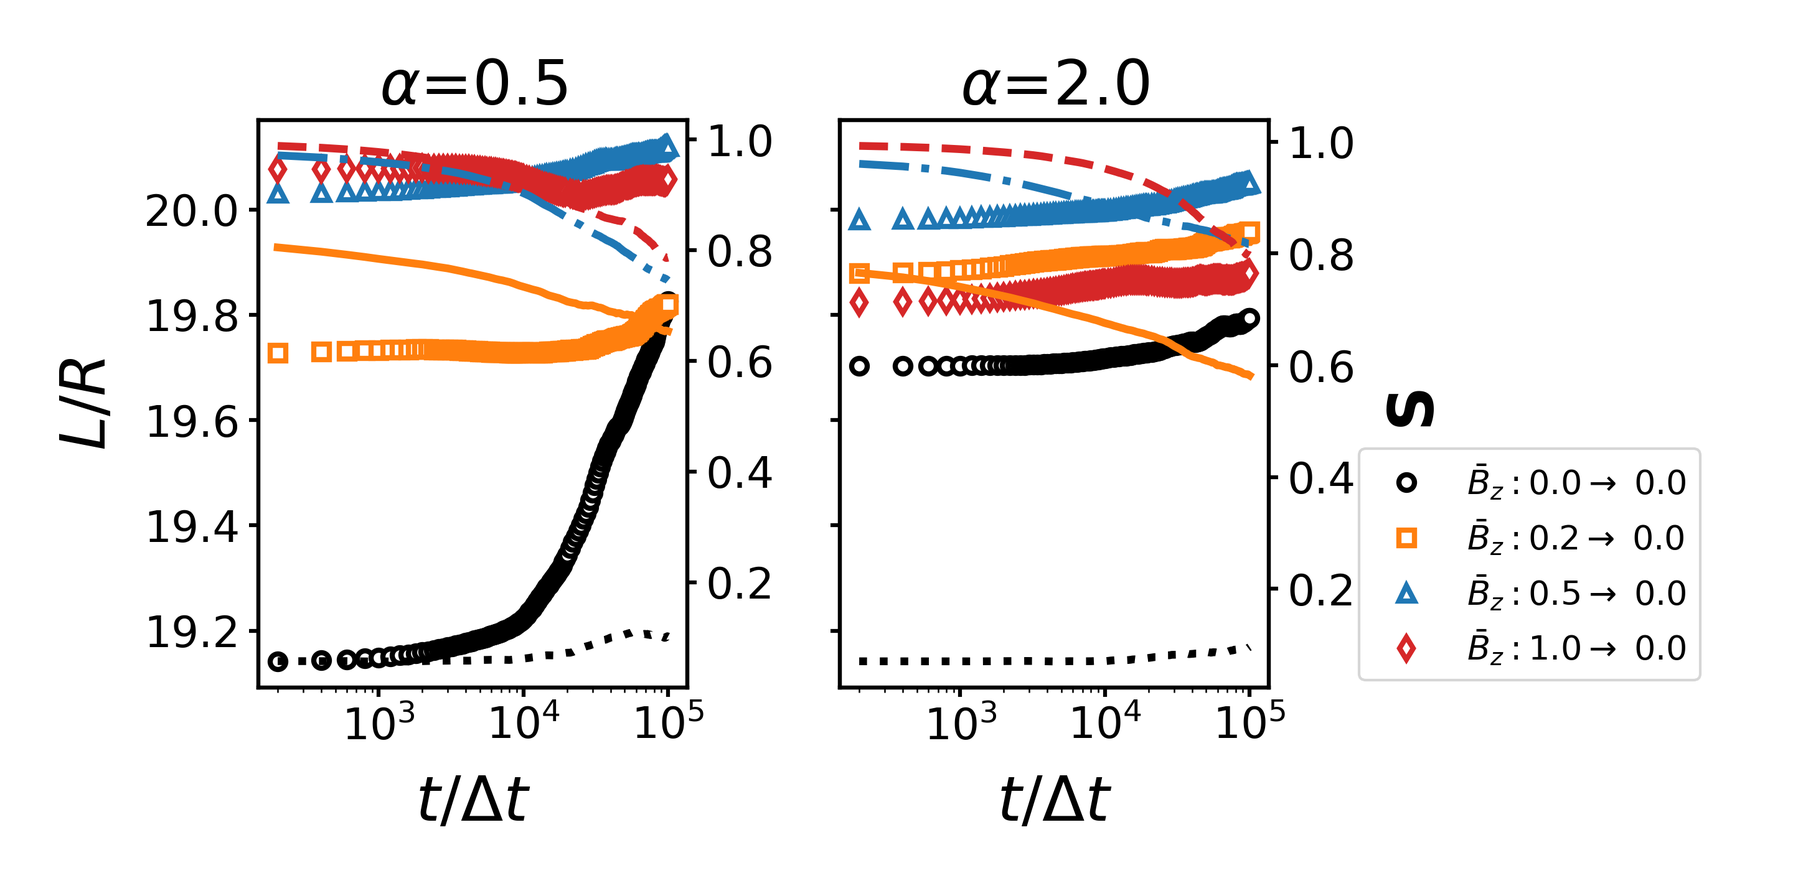
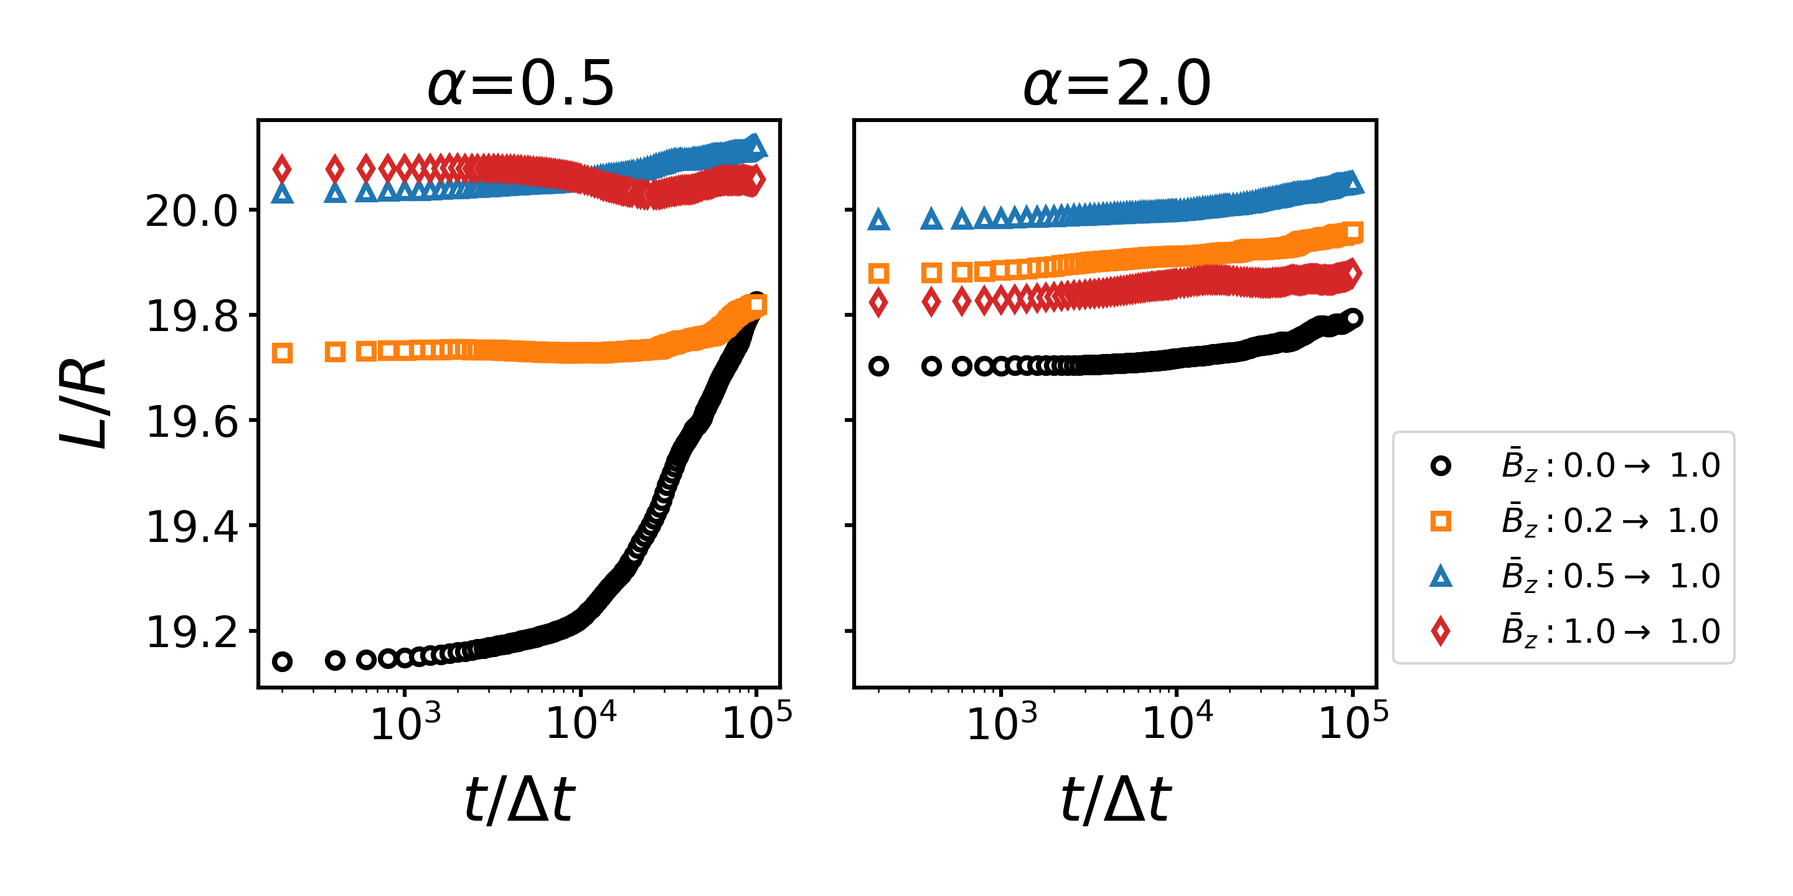
Changes 1. removed repeated analysis definitions 2. updated steinhardt definition for voronoi version 3. Increased size of some figures

diff --git a/chapters/paper2.tex b/chapters/paper2.tex
@@ -43,7 +43,7 @@ history and demonstrate how magnetic field manipulation, in combination with ani
 offering new capabilities for adaptive material design.
 
 \section{Results}\label{sec:results_p2}
-\subsection{Hysteresis curve}
+\subsection{Kinetic arrest}
 \label{section:hysteresis_curve}
 
 Bijels have proposed applications as soft-matter-based material templates, drug delivery vectors, and separation systems. In all cases, material performance is 
@@ -288,20 +288,18 @@ of particles to the magnetic field.
 Bijels are kinetically arrested systems whose long-term structural properties are governed by the stability and arrangement 
 of the interfacial particle monolayer. Prior studies on responsive emulsions have shown that even after the removal of external 
 stimuli, the microstructure often remains unchanged for extended periods due to the interfacial 
-jamming of particles \cite{cui_stabilizing_2013}. Similarly, in the hysteresis experiments 
-discussed earlier (Figure~\ref{fig:hysteresis_curve}), we observed that reducing or removing the magnetic field did not 
+jamming of particles \cite{cui_stabilizing_2013}. Similarly, when assessing the kinetic arrest of bijels shown 
+in Figure~\ref{fig:hysteresis_curve}, we observed that reducing or removing the magnetic field did not 
 lead to a reversal of domain coarsening or particle realignment, suggesting an inherent structural resilience once the bijel 
 has stabilized.
 
-However, bijels are formed through a dynamic arrest during spinodal decomposition, and the 
-particles jam in configurations that may not correspond to a thermodynamic minimum particularly when a magnetic field is 
-applied during formation. Gunther et al. also showed that bijels stabilized by ellipsoidal particles exhibited timescales 
-of response distinct from bijels stabilized by spherical particle due to steric effects between ellipsoidal paticles.
+Gunther et al. also showed that bijels stabilized by ellipsoidal particles exhibited timescales 
+of response distinct from bijels stabilized by spherical particle due to steric effects between ellipsoidal particles.
 Therefore, this section will seek to understand to what extent the initial particle order affects the 
 bijel's capacity to relax or restructure upon removal of the field. To explore this, 
 we now examine the post-stimulus structural response of bijels formed under different field conditions 
 \(\bar{B}_{\text{template}} = 0.0, 0.2, 0.5, 1.0\). After allowing each structure to fully stabilize under a 
-constant magnetic field, we abruptly switch off the field and observe the subsequent time evolution of both the 
+constant magnetic field, we switch off the field and observe the subsequent time evolution of both the 
 microstructure and interfacial particle behavior over a duration of \(t = 10^5 \Delta t\). This analysis aims to 
 clarify the mechanisms that underpin the apparent irreversibility captured in the hysteresis response and further 
 assess the role of processing history in bijel stability.
@@ -315,18 +313,17 @@ assess the role of processing history in bijel stability.
 \label{fig:microstructure_viz-field_down}
 \end{figure}
 
-FIgure \ref{fig:microstructure_viz-field_down} shows that in 
+Figure \ref{fig:microstructure_viz-field_down} shows that in 
 both cases, the bulk microstructure remains effectively unchanged over the course of the simulation, highlighting the 
-kinetic stability and arrested nature of the bijel once jamming has occurred.
-However, closer inspection of the interfacial particle arrangement reveals subtle but important differences. In the 
+kinetic stability and arrested nature of the bijel.
+However, closer inspection of the interfacial particle arrangement reveals that in the
 \(\bar{B}: 0.2 \rightarrow 0.0\) case, the particles retain a degree of orientational order, although slight deviations 
 from the field-aligned configuration begin to emerge. In contrast, for \(\bar{B}: 1.0 \rightarrow 0.0\), where the 
 initial nematic order was stronger, the system exhibits more apparent disorganization by the final time step. This 
 suggests that while the jammed interface resists large-scale rearrangement, there is a gradual relaxation of particle 
-orientations in the absence of the aligning field. The extent of this relaxation appears to correlate with the initial 
-alignment strength, indicating that systems formed under stronger magnetic fields exhibit greater reorientation when 
+orientations in the absence of the aligning field. The extent of this relaxation correlates with the initial field strength when 
 the field is removed. We probe the effect of these reorientations by calculating the time evolution of the domain size
-and the corresponding nematic order parameter of the particles in Figure \ref{fig:domain_size-field_down}
+in Figure \ref{fig:domain_size-field_down}
 
 \begin{figure} 
 \centering 
@@ -337,75 +334,15 @@ and the corresponding nematic order parameter of the particles in Figure \ref{fi
 \label{fig:domain_size-field_down} 
 \end{figure}
 
-Figure~\ref{fig:domain_size-field_down} presents the time evolution of the normalized domain size (\(L/R\)) and nematic 
-order parameter (\(S\)) for bijels stabilized by oblate (left) and prolate (right) particles following the removal of an 
-applied magnetic field. For all systems except oblate particle stabilized bijel with \(\bar{B}: 0.0 \rightarrow 0.0\), 
-a modest degree of domain coarsening is observed. This slow, steady increase in domain size indicates that while the 
-global microstructure remains largely intact, minor structural rearrangements may still occur post-stimulus, particularly 
+Figure~\ref{fig:domain_size-field_down} presents the time evolution of the normalized domain size (\(L/R\)) for bijels stabilized by oblate 
+(left) and prolate (right) particles following the removal of an applied magnetic field. For all systems except oblate particle stabilized 
+bijel with \(\bar{B}: 0.0 \rightarrow 0.0\), a modest degree of domain coarsening is observed. This slow, steady increase in domain size 
+indicates that while the global microstructure remains largely intact, minor structural rearrangements may still occur post-stimulus, particularly 
 at long timescales. This behavior is more prominent in prolate particle systems, suggesting that elongated particles 
 may provide greater local flexibility for slight monolayer relaxation without disrupting the overall network.
-A notable exception arises in the oblate \(\bar{B}: 0.0 \rightarrow 0.0\) case, which exhibits a sudden and pronounced 
-increase in domain size at later times. This behavior is attributed not to gradual coarsening but to a domain coalescence 
-event.
-
-The nematic order parameter \(S\) for all field-removal scenarios demonstrates a consistent, order-dependent decrease over 
-time. This trend suggests that in the absence of an aligning field, particles gradually relax from their field-induced 
-configurations toward thermodynamically preferred orientations governed by interfacial capillary interactions. The 
-magnitude of this decay correlates with the initial degree of ordering: systems formed under higher magnetic fields 
-(\(\bar{B} = 0.5\) and \(1.0\)) show the most significant reduction in \(S\), reflecting a greater degree of reorientation.
-
-These results reinforce the interpretation that bijel microstructure is resilient to field removal, with no meaningful 
-reversal in domain architecture once jamming has occurred. However, the interfacial particle monolayer continues to evolve 
-at the microscale, with orientation relaxation providing a residual mechanism for slow, local structural change. To determine 
-whether this relaxation induces anisotropic coarsening, we next quantify the directional change in domain size and tortuosity 
-using the relative change metric \(\Delta L = \frac{L_f - L_i}{L_i}\), applied separately to \(L_\perp\) and \(L_\parallel\). 
-The same formulation is used to compute directional tortuosity changes, with results summarized in 
-Figure~\ref{fig:domain_size_aniso-field_up}.
-
-\begin{figure} 
-\centering 
-\includegraphics[scale = 0.6]{../figures/results/paper2/domain_size_aniso-field_down.png} 
-\caption{Plots of the anisotropic structural response of bijels after the removal of 
-         magnetic fields, by showing the relative change in directional domain size \((\Delta L)\) and tortuosity \((\Delta \tau)\) 
-         as a function of \(\Delta \bar{B}\), the change in field strength from the templated to final state. Blue curves correspond 
-         to bijels stabilized by oblate particles, and red curves to those stabilized by prolate particles.} 
-\label{fig:domain_size_aniso-field_down} 
-\end{figure}
-
-Overall, only minor anisotropic changes in domain size and tortuosity are observed following field removal, with no consistent 
-or monotonic dependence on \(\Delta \bar{B}\). This suggests that although particles may gradually relax from their field-induced 
-alignment, the resulting structural rearrangements are subtle and largely isotropic at the microstructural scale. The small 
-fluctuations observed in \(\Delta L\) and \(\Delta \tau\) likely reflect localized heterogeneities in the particle monolayer 
-rather than coordinated, directional coarsening. These findings support the notion that once the magnetic field is removed, 
-the dominant force acting on the particles is the interfacial capillary interaction, which seeks to minimize interfacial 
-energy without preference for a particular direction.
-
-Importantly, this contrasts with the structural response observed during the application of a magnetic field, where clear 
-anisotropy emerged as a result of field-driven particle reorientation. Here, despite the monolayer initially being in an 
-anisotropic, ordered state, the system exhibits no significant directional relaxation, underscoring the kinetic resilience 
-of the jammed interface. Thus, the microstructural evolution following stimulus removal appears to be dominated by slow, 
-isotropic relaxation rather than directional restructuring.To further understand the role of the capillary interactions on the 
-particle monolayer, we examine the time evolution of the interface angle \(\langle \psi \rangle\). 
-
-\begin{figure} 
-\centering 
-\includegraphics[scale=0.6]{../figures/results/paper2/psi-field_down.png} 
-\caption{Plots of the average interfacial angle $\langle \psi \rangle$  plotted against time for bijels stabilized by oblate and prolate particles
-         on the left and right plots respectively. They show slight increases in $\langle \psi \rangle$ over time indicating that the particles are
-         slowly tilting out of the interface, inducing the domain coarsening observed.} 
-\label{fig:interface_angle-field_down} 
-\end{figure}
-
-Figure \ref{fig:interface_angle-field_down} shows that the the rate and extent of angular relaxation appear relatively insensitive to the initial degree of 
-order imposed by the templating field. For oblate particles, \(\langle \psi \rangle\) increases steadily regardless of initial alignment strength, indicating that 
-even highly ordered monolayers do not retain their field-imposed orientation indefinitely. Similarly, for prolate particles, although the change in 
-\(\langle \psi \rangle\) is smaller in magnitude, a comparable upward trend is evident.
-
-These results suggest that the particle monolayer continues to evolve post field-removal, driven by interfacial forces seeking to minimize the total interfacial 
-energy. However, since these angular adjustments do not lead to noticeable changes in the bulk microstructure it can be 
-inferred that rotational relaxation alone is insufficient to trigger further domain coarsening once jamming has occurred. This supports the conclusion that 
-structural irreversibility in these systems arises primarily from the kinetic constraints imposed by jamming, rather than any residual orientational stress 
-within the particle layer.
+A notable exception arises in the oblate \(\bar{B}: 0.0 \rightarrow 0.0\) case, which exhibits a pronounced 
+increase in domain size at later times. These results reinforce the interpretation that bijel microstructure 
+is resilient to field removal, with no meaningful reversal in the fluid once jamming has occurred even though local particle reorientation occurs.
 
 \section{Conclusions}
 
@@ -413,24 +350,19 @@ In this work, we investigated how magnetic fields influence the structure and dy
 by the relevance of bijels in applications such as catalysis, membrane filtration, and drug delivery, we explored how external stimuli can enable in-situ control over 
 microstructure in these systems. Using hybrid Lattice Boltzmann-Molecular Dynamics simulations, we characterized the structural response of formed bijels by investigating
 the effect of applying a magnetic field and the initial microstructure on the structural response characterized. We first demonstrated that bijels subjected to increasing 
-magnetic field strength exhibit hysteresis in its structural response, where the domain size increases with field application but does not revert upon field removal.
+magnetic field strength exhibit kinetic arrest in its structural response, where the domain size increases with field application but does not revert upon field removal.
 
 When investigating the effect of the application of magnetic fields, our results revealed that applying magnetic fields post-formation induces domain coarsening up to 5\%, with 
-field-induced anisotropy dependent on particle shape. Oblate particles exhibited growth primarily in the perpendicular direction by up to 60\%, while prolate particles showed coarsening 
-along the field direction up to 40\%, 
-both accompanied by a decrease in tortuosity. These changes arise from particle reorientation to the field, followed by local unjamming and interfacial rearrangement before 
-re-jamming occurs, as characterized using the average interface angle of the particles and the Steinhardt bond orientational order parameter.
-
-Importantly, the extent of microstructural change scales with the difference in magnetic field strength before and after application. We found that particle alignment 
-characterized via $\langle \psi \rangle$ and $\langle Q_6 \rangle$ governs domain evolution. Disordered particle layers exhibited strong field responses, while highly ordered 
-templates showed minimal change, highlighting the importance of reordering on the structural response observed. In contrast, removing the magnetic field had little effect 
+field-induced anisotropy dependent on particle shape. Oblate particles exhibited growth primarily in the perpendicular direction by up to 60\%, while prolate particles showed 
+coarsening along the field direction up to 40\%, both accompanied by a decrease in tortuosity. These changes arise from particle reorientation to the field, followed by 
+local unjamming and interfacial rearrangement before re-jamming occurs, as characterized using the average interface angle of the particles and the 
+Steinhardt bond orientational order parameter. In contrast, removing the magnetic field had little effect 
 on bijel structure. Domain size and anisotropy remained largely unchanged, regardless of initial particle order. While minor relaxation in particle alignment was observed, 
 capillary forces alone were insufficient to drive significant structural reorganization.
 
-Together, these results identify modes of structural response that depend upon the initial ordering of particles at the interface. The first mechanism identified occurs with
-disordered particle monolayers which upon application of a magnetic field, unjam facilitating domain coarsening before rejamming once the interface area matches the 
-particle cross sectional area. The second mechanism occurs due to particle reorientation to the applied field when particles are nematically ordered but not ordered in the direction
-of the magnetic field. 
+These results show that rapid reorientation of the particle stabilizers is necessary to induce structural response in bijels. This is illustrated through structural response
+of bijels occurring upon application of the field, causing rapid realignment of particles to the applied field direction while slow realignment of particles away from
+the field when switching the field off generated no meaningful changes in the microstructure.
 
 While our simulations offer valuable insights into the tunability of bijels, they were limited to a single set of fluid and particle parameters. Future work could explore the 
 effects of particle size, volume fraction, interparticle forces, and field orientation or gradients, all of which may unlock additional control over bijel structure.

diff --git a/chapters/paper3.tex b/chapters/paper3.tex
@@ -151,24 +151,9 @@ different processing conditions is essential for interpreting the mechanical
 behavior observed. In particular, the contrasting effects seen for prolate and oblate particles, where increased magnetic ordering leads to a larger
 and smaller yield stress respectively. To quantitatively assess the local arrangement of particles at the interface, we compute the ensemble-averaged 
 Steinhardt bond orientational order parameters $q_2$ and $q_6$. 
-\cite{steinhardt_bond-orientational_1983, lechner_accurate_2008, mickel_shortcomings_2013}. These parameters characterize the local structural ordering by 
-projecting the orientations of neighboring particles onto spherical harmonics of degree \(l\), and are defined as
-
-
-\begin{equation}
-q_l(i) = \left( \frac{4\pi}{2l+1} \sum_{m=-l}^{l} \left| \frac{1}{N(i)} \sum_{j=1}^{n(i)} Y_{lm}(\vec{r}_{ij}) \right|^2 \right)^{\frac{1}{2}} ,
-\end{equation} 
-%\TODO{update formula to the one actually used}
-
-Here, \(n(i)\) denotes the number of nearest neighbors of particle \(i\), \(\vec{r}_{ij}\) is the vector connecting the centers of particles \(i\) and \(j\), 
-and \(m\) is an integer ranging from \(-l\) to \(l\) that indexes the spherical harmonic components \(Y_{lm}\). Neighbor lists are typically defined using a 
-fixed cutoff radius around each particle, identifying nearby particles as neighbors. We calculate the python package Freud to calculate the bond order parameters 
-and use a Voronoi cell to determine the particle neighborhood rather than the standard distance criterion \cite{ramasubramani_freud_2020,mickel_shortcomings_2013}. 
-The Voronoi-based method avoids the need for a predefined cutoff and yields more robust neighbor definitions, particularly in disordered systems. Bond 
-orientational order parameters have been widely employed to study structural transitions in colloidal and ceramic systems, including crystallization, nucleation, 
-and glass formation \cite{vagberg_glassiness_2011, besseling_three-dimensional_2007, schall_structural_2007, ozawa_jamming_2012}. $q_6$ is most commonly used 
-to identify crystal structures by matching the calculated values to reference values for specific crystal structures such as fcc or hcp. We plot the change in 
-$q_6$ of the microstructures as a function of the processing applied in Figure \ref{fig:q6_rheology_init}
+\cite{steinhardt_bond-orientational_1983, lechner_accurate_2008, mickel_shortcomings_2013}. The technique to calculate this parameter is provided in
+Equation \ref{eq:steinhardt_definition} We plot the change in 
+$\langle Q6 \rangle$ of the microstructures as a function of the processing applied in Figure \ref{fig:q6_rheology_init}
 
 \begin{figure} 
     \centering 
@@ -207,7 +192,7 @@ by taking the numerical average of $\theta_z$ for all particles. The results are
 
 \begin{figure} 
     \centering 
-    \includegraphics[scale=0.3]{../figures/results/paper3/theta_z-time_compare-specific.png} 
+    \includegraphics[scale=0.5]{../figures/results/paper3/theta_z-time_compare-specific.png} 
     \caption{Comparisons of the average orientation of particles to the direction of the applied shear for bijels stabilized by
              ellipsoidal particles as a function of the applied shear rate for bijels made with no field and a field strength of $\bar{B} = 1$,
              keeping the field strength the same. We show that the orientation of particles to the applied shear is dependent on the
@@ -224,14 +209,13 @@ necessary to cause particle reorientation on the interface. When taking the $\la
 the effect of magnetic field driven ordering of particles can be seen.
 
 As the particles are adsorbed onto the interface, there is an open question whether the reorientation of particles to the shear also causes the interface to move with the
-particles. To analyze this effect, we analyzed the angle between each particles symmetry axis and the local interface normal by generating a mesh of the interface using the marching 
-cubes algorithm and, for each particle, identified the nearest mesh vertex (excluding those beyond the length of the particle's long axis). We then calculated 
-the angle $\psi$ between the particle orientation vector \(\hat{\vec{o}}_i\) and the local surface normal. The time evolution of the average interface
-angle of all particles $\langle \psi \rangle$, calculated as a numerical average of $\psi$ for all particles, is shown in Figure~\ref{fig:interface_angle_shear}.
+particles. To analyze this effect, we analyzed the angle between each particles symmetry axis and the local interface, calculated in the technique described in Chapter 4.
+The time evolution of the average interface angle of all particles $\langle \psi \rangle$, calculated as a numerical average of $\psi$ for all particles, is shown in 
+Figure~\ref{fig:interface_angle_shear}.
 
 \begin{figure} 
     \centering 
-    \includegraphics[scale=0.3]{../figures/results/paper3/psi-time_compare-specific.png} 
+    \includegraphics[scale=0.5]{../figures/results/paper3/psi-time_compare-specific.png} 
     \caption{Comparisons of the average orientation of particles to the interface for bijels stabilized by
              ellipsoidal particles as a function of the applied shear rate for bijels made with no field and a field strength of $\bar{B} = 1$,
              keeping the field strength the same. We show that the particles tilt out of the interface upon application of shear with the degree of

diff --git a/chapters/paper1_5.tex b/chapters/paper1_5.tex
@@ -74,13 +74,15 @@ onto spherical harmonics of degree \(l\), and are defined as
 
 
 \begin{equation}
-q_l(i) = \left( \frac{4\pi}{2l+1} \sum_{m=-l}^{l} \left| \frac{1}{N(i)} \sum_{j=1}^{n(i)} Y_{lm}(\vec{r}_{ij}) \right|^2 \right)^{\frac{1}{2}} ,
+% q_l(i) = \left( \frac{4\pi}{2l+1} \sum_{m=-l}^{l} \left| \frac{1}{N(i)} \sum_{j=1}^{n(i)} Y_{lm}(\vec{r}_{ij}) \right|^2 \right)^{\frac{1}{2}} ,
+q_l(i) = \sqrt{ \frac{4 \pi}{2l + 1} \Sigma_{m = -l}^{l} | \Sigma_{f} \frac{A(f)}{A}, Y_{lm}(\theta_f, \phi_f) |^2 }
 \label{eq:steinhardt_definition}
 \end{equation} 
-%\TODO{update formula to the one actually used}
 
-Here, \(n(i)\) denotes the number of nearest neighbors of particle \(i\), \(\vec{r}_{ij}\) is the vector connecting the centers of particles \(i\) and \(j\), and \(m\) is an integer ranging from \(-l\) 
-to \(l\) that indexes the spherical harmonic components \(Y_{lm}\). Neighbor lists are typically defined using a fixed cutoff radius around each particle, identifying nearby particles as neighbors. 
+Here $A(f)$ denotes the area of face f of the Voronoi cell around a reference particle, $A$ is the surface area of the Voronoi cell, 
+$\theta_f$ and $\phi_f$ are the polar and azimuth angles of the outer normal vector connecting the reference particle to the vertex representing
+an adjacent particle and $Y_{lm}$ is the spherical harmonic component. 
+Neighbor lists are typically defined using a fixed cutoff radius around each particle, identifying nearby particles as neighbors. 
 We calculate the python package Freud to calculate the bond order parameters and use a Voronoi cell to determine the particle neighborhood rather than the standard distance criterion 
 \cite{ramasubramani_freud_2020,mickel_shortcomings_2013}. The Voronoi-based method avoids the need for a predefined cutoff and yields more robust neighbor definitions, particularly in disordered systems. 
 Bond orientational order parameters have been widely employed to study structural transitions in colloidal and ceramic systems, including crystallization, nucleation, and glass formation 
